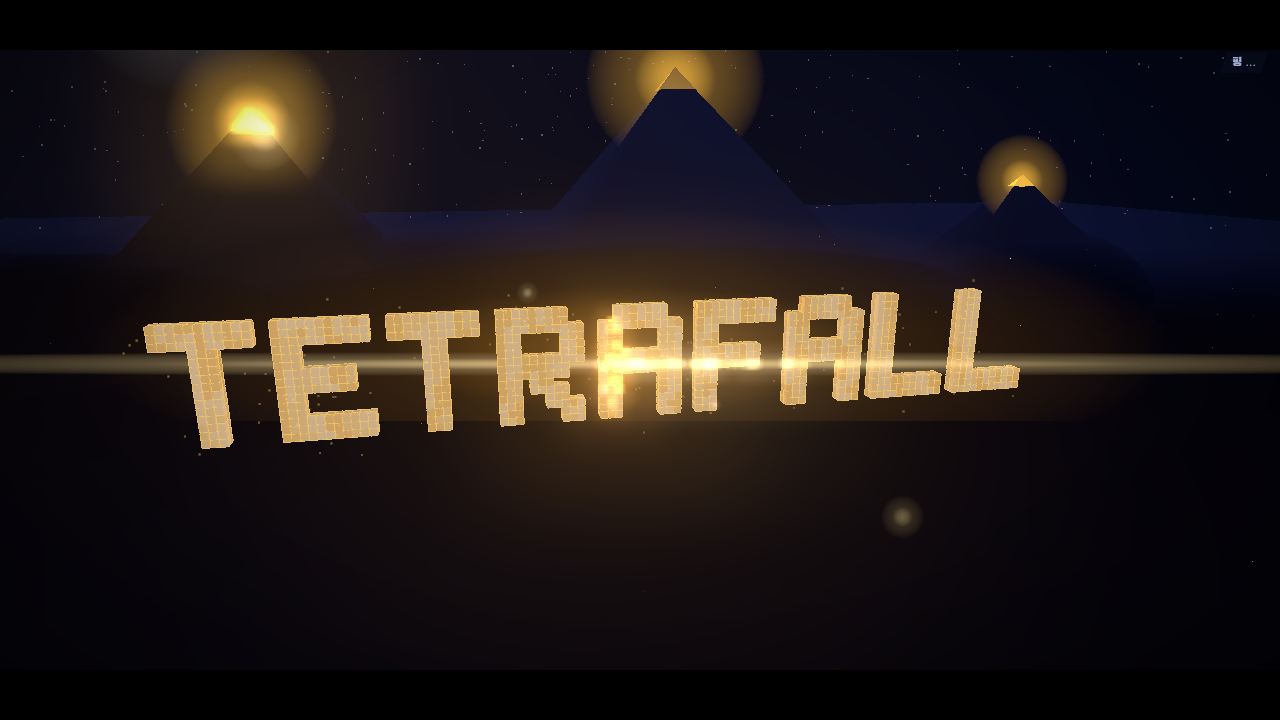
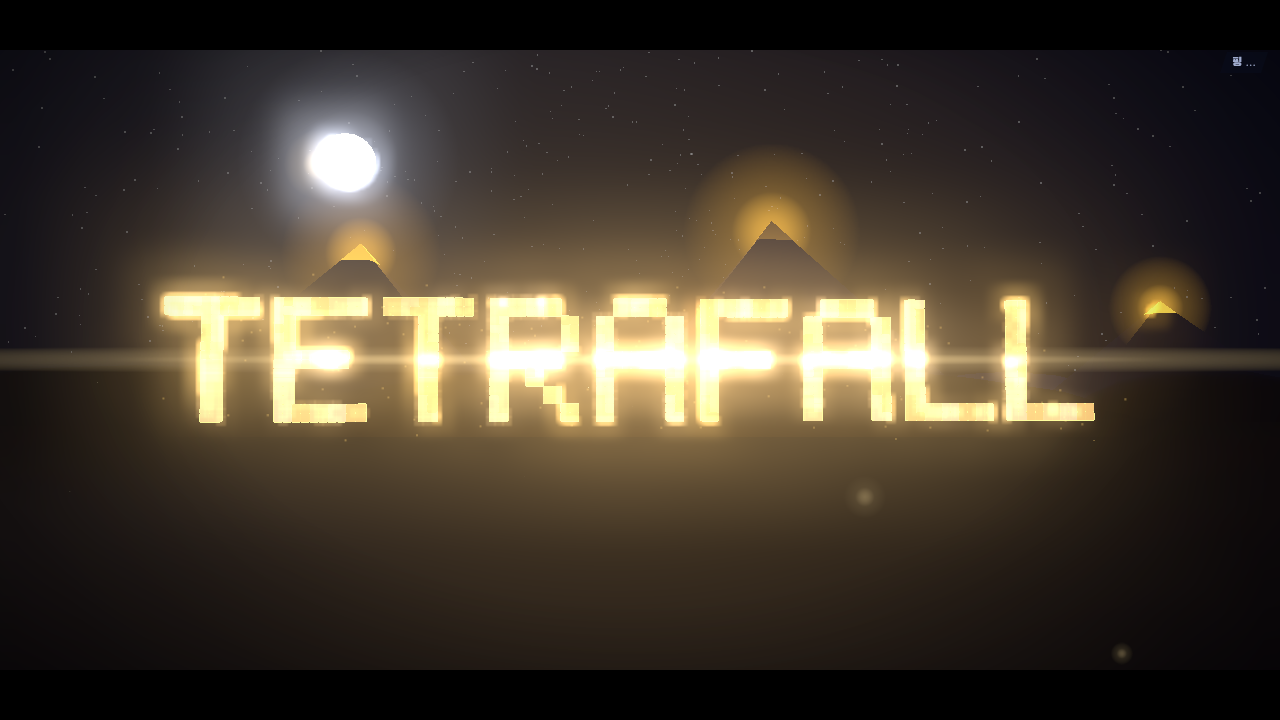
타이틀 2단계: gif·그래픽 낮춤·움직임 줄이기 (1차 모습으로 되돌린 시안 그대로)

diff --git a/title/README.md b/title/README.md
@@ -1,6 +1,6 @@
 # 타이틀 엔딩 아트 시안 (B3)
 
-로고 완성 순간 (빛 터짐 0.35초 뒤), 1280×720, 보통 그래픽 (블룸·반사 켬). 2차: 로고 3D·굵게 (획 3칸·두께 2겹·위옆에서 내려다봄). 코드: claude/tf-b3-world2 447b166
+로고 완성 순간 (빛 터짐 0.35초 뒤), 1280×720, 보통 그래픽 (블룸·반사 켬). 코드: claude/tf-b3-world2
 
 | 파일 | 테마 |
 |---|---|
@@ -12,3 +12,12 @@
 | castle | 횃불 성벽 |
 | meadow | 반딧불 밤 초원 |
 | all | 7개 한 장 |
+
+## 2단계 (step2/) — 1차 모습 기준 (2차 3D·굵게는 되돌림)
+
+| 파일 | 내용 |
+|---|---|
+| title_crystal.gif | 800×450, 10fps: 캄캄 → 블록 쌓기 → 빛 터짐 → Enter 안내 → Enter → 빠져나가며 하얗게 → 메뉴 섬 |
+| flow.png | gif 중 8칸 (0.5초·3초·4초·5.7초·Enter 뒤 0.6초·1초·메뉴) |
+| title_crystal_low.png | 그래픽 낮춤: 블룸·거울 반사·렌즈 플레어 끔, 완성 로고로 바로 |
+| title_crystal_reduced.png | 움직임 줄이기: 완성 로고로 바로 (블룸은 켬), Enter 면 하얀 페이드만 |
